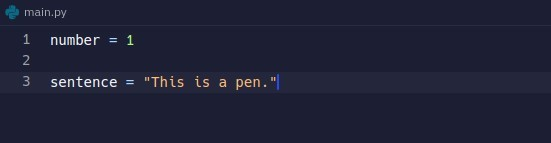
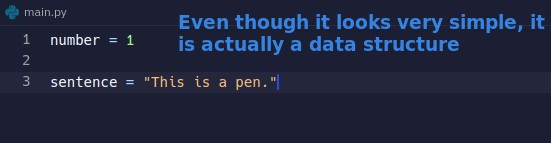
qq

Changed region(s): [[0.3085, 0.0839, 0.9873, 0.2517], [0.3085, 0.2517, 0.833, 0.3916]]

diff --git a/day4/43-list/memo.md b/day4/43-list/memo.md
@@ -2,20 +2,34 @@
 
 ![Alt data structure](pic/01.jpg)
 
+- Data structure is the method of data organization and storage, a numeric value or a string can also be said to be a data structure.
+
 ## **Data structure: List**
+
+> If we wanted to save every state in the US to the variable, we would probably use the following with our known way.
 
 ![Alt list of state](pic/02.jpg)
 
+- But this is a bit strange, because each state string is one of the US states, and they are related to each other, but there is no way to show this relatedness with such a storage method above.
+
 ![Alt list](pic/03.jpg)
 
+- So we have another data structure to store a series of related values, which is the list.
+
 ## **Order of List**
+
+> List is a sequential data structure, we can read the values in positive order or reverse order.
 
 ![Alt order](pic/04.jpg)
 
 ![Alt order from end to start](pic/05.jpg)
 
+- JavaScript array cannot read the elements in the array directly using the inverted index, you have to use Array.prototype.at to use the inverted index, which is different from Python list.
+
 ## **Methods of List and Official Documents**
 
 ![alt](pic/06.jpg)
+
+- There are a lot of methods under the list that can be used, we don't need to remember them specifically, but we must be familiar with how to query the documents.
 
 ![alt](pic/07.jpg)
